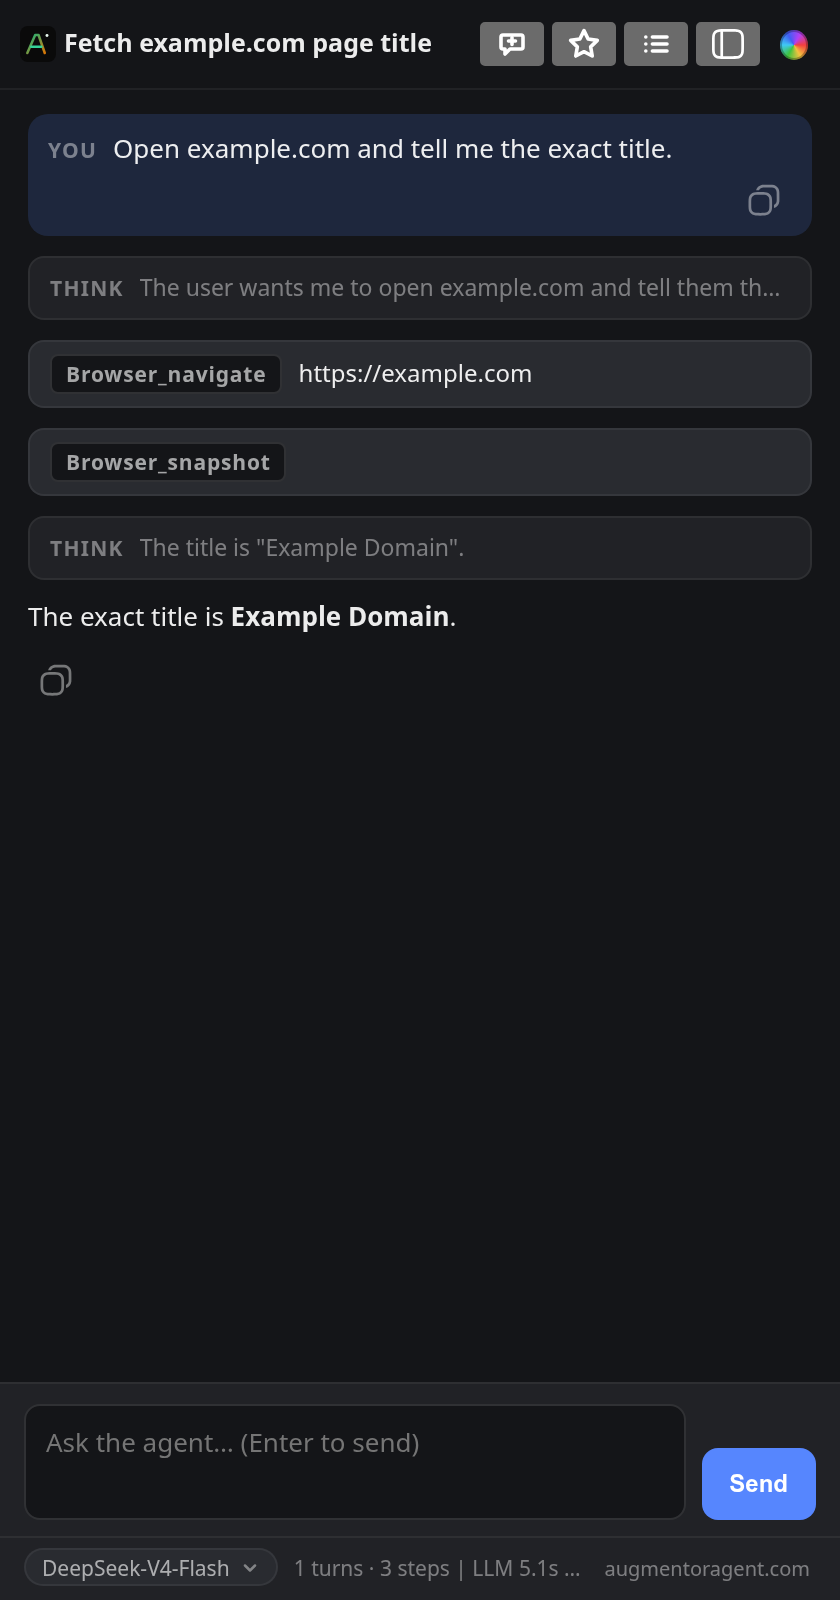
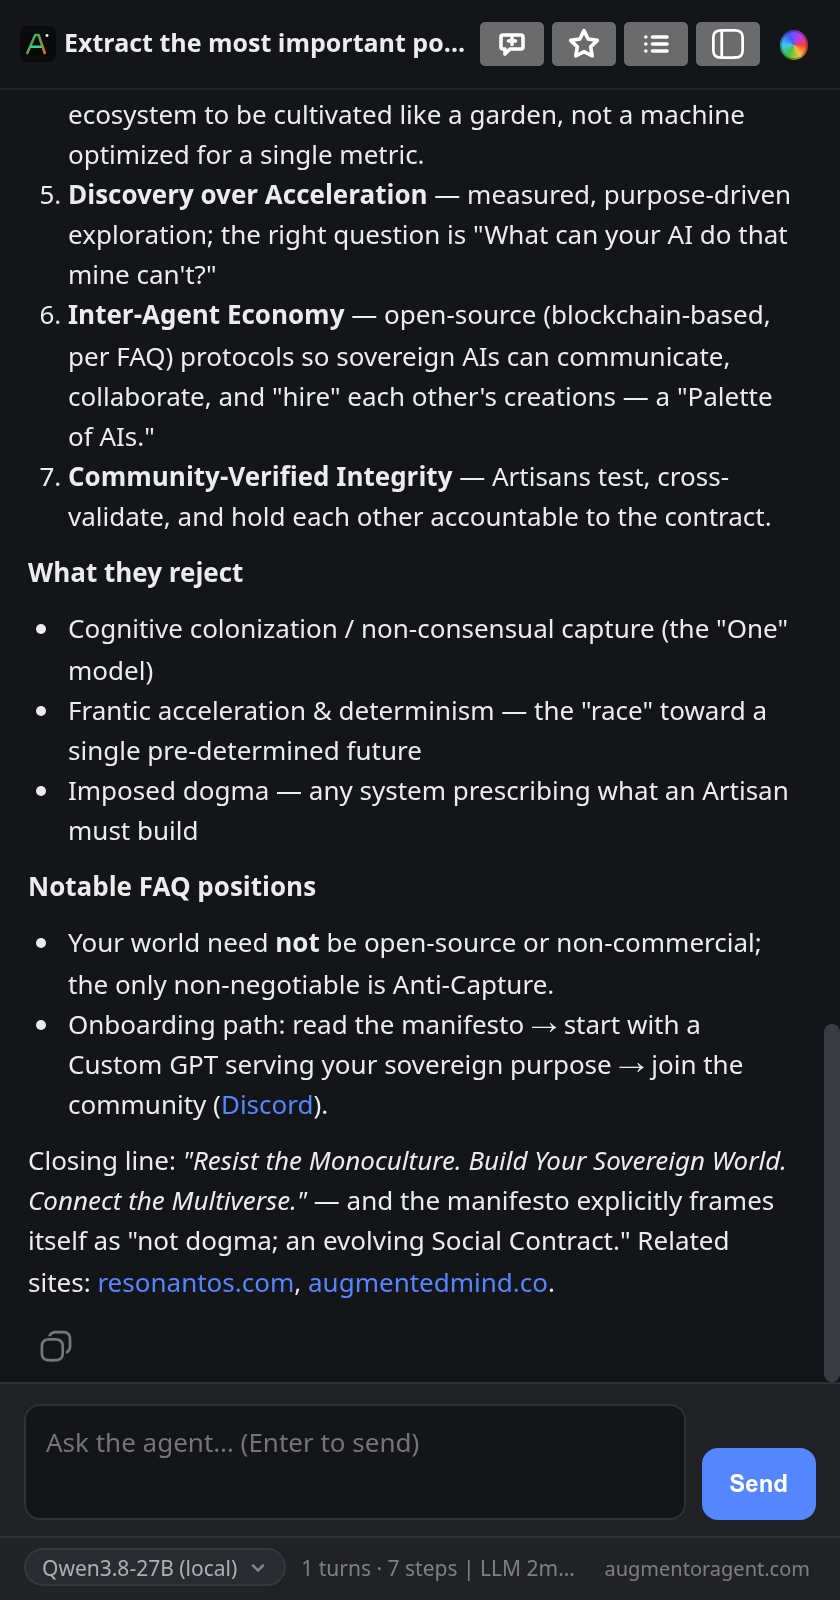
Reshoot on augmentatism.com: real extraction turn (2m27s local 27B), IN ACTION mock mirrors the real reply, stats caption measured from the session store

diff --git a/index.html b/index.html
@@ -73,7 +73,7 @@
                 <span class="dots"><span class="dot-c"></span><span class="dot-c"></span><span class="dot-c"></span></span>
                 <span class="url">Augmentor · side panel, live in your browser</span>
               </div>
-              <img class="shot shot-panel" src="assets/shot-panel.png" alt="Augmentor side panel in Chromium — a live chat on the local Qwen3.8-27B model, with the model chip and site link in the dock" loading="lazy">
+              <img class="shot shot-panel" src="assets/shot-panel.png" alt="Augmentor side panel in Chromium — a live extraction from augmentatism.com on the local Qwen3.8-27B model, with the model chip and site link in the dock" loading="lazy">
             </div>
             <p class="device-cap"><span class="dot-live"></span>the real side panel · live in your browser</p>
           </div>
@@ -151,17 +151,17 @@
         <div class="install-grid">
           <div class="turn-mock reveal">
             <div class="tm-head"><span class="who">Augmentor · Augmentor Chat</span><span class="badge">Qwen3.8-27B · local</span></div>
-            <div class="turn-bubble user">Open example.com and tell me the exact title.</div>
-            <div class="turn-step done"><span class="s-dot"></span>Opened example.com</div>
-            <div class="turn-step active"><span class="s-dot"></span>Analysing the page…</div>
-            <div class="turn-bubble agent" id="agent-answer">The page title is <strong style="color:#fff;">“Example Domain”</strong>. It explains the domain is reserved for examples in documents.</div>
+            <div class="turn-bubble user">Extract the most important points from https://augmentatism.com/</div>
+            <div class="turn-step done"><span class="s-dot"></span>Opened augmentatism.com</div>
+            <div class="turn-step active"><span class="s-dot"></span>Reading the manifesto…</div>
+            <div class="turn-bubble agent" id="agent-answer"><strong style="color:#fff;">One vs. Many.</strong> Corporate AI is the “One” — <em>cognitive colonization</em>: flattening one subculture, then imposing it on everyone. Augmentatism is the “Many”: AI Artisans building Sovereign AIs through World Building, bound by a seven-principle Social Contract whose floor is Anti-Capture. Closing line: <em>“Resist the Monoculture. Build Your Sovereign World. Connect the Multiverse.”</em></div>
           </div>
           <div class="shot-frame reveal">
             <div class="chrome">
               <span class="dots"><span class="dot-c"></span><span class="dot-c"></span><span class="dot-c"></span></span>
-              <span class="url">https://example.com · agent is driving this tab</span>
+              <span class="url">https://augmentatism.com · agent is driving this tab</span>
             </div>
-            <img src="assets/shot-veil.png" alt="The Augmentor frost veil over a browser tab with a status pill" loading="lazy">
+            <img src="assets/shot-veil.png" alt="The Augmentor frost veil over augmentatism.com with a status pill" loading="lazy">
             <div class="shot-cap"><span class="t">The frost veil, live</span>Condenses in, breathes for the whole turn, and melts when the answer lands. The pill says exactly what’s happening, in plain words.</div>
           </div>
         </div>
@@ -237,7 +237,7 @@
 <span class="p">./install-native-host.sh</span> &lt;extension-id&gt;
 
 <span class="c"># model calls browser_navigate → plugin WS → extension → the real tab</span>
-<span class="k">browser_navigate</span>  <span class="hl">"https://example.com"</span>  <span class="c"># ~200ms round trip</span>
+<span class="k">browser_navigate</span>  <span class="hl">"https://augmentatism.com"</span>  <span class="c"># ~200ms round trip</span>
             </div>
           </div>
         </div>
@@ -298,7 +298,7 @@
         <div class="veil-demo reveal" id="veil-demo">
           <canvas id="veil-canvas"></canvas>
           <div class="page-mock">
-            <p class="mock-title">example.com</p>
+            <p class="mock-title">augmentatism.com</p>
             <div class="mock-line"></div>
             <div class="mock-line"></div>
             <div class="mock-line short"></div>
@@ -353,7 +353,7 @@
             <div class="stat"><div class="num"><span class="counter" data-to="17" data-suf="px">0</span></div><div class="lbl">streaming renders ≤ 50ms apart</div></div>
             <div class="stat"><div class="num"><span class="counter" data-to="0" data-suf="">0</span></div><div class="lbl">patches to DeepSeek Harness</div></div>
           </div>
-          <p class="veil-caption mt-6">"open example.com · snapshot · tell me the title" → prompt to idle in 3.42s on a local 27B model.</p>
+          <p class="veil-caption mt-6">“extract the most important points from augmentatism.com” → prompt to idle in 2m 27s on a local 27B model — 7 steps, 3.4k reply tokens, measured from the session store.</p>
         </div>
       </div>
     </section>
